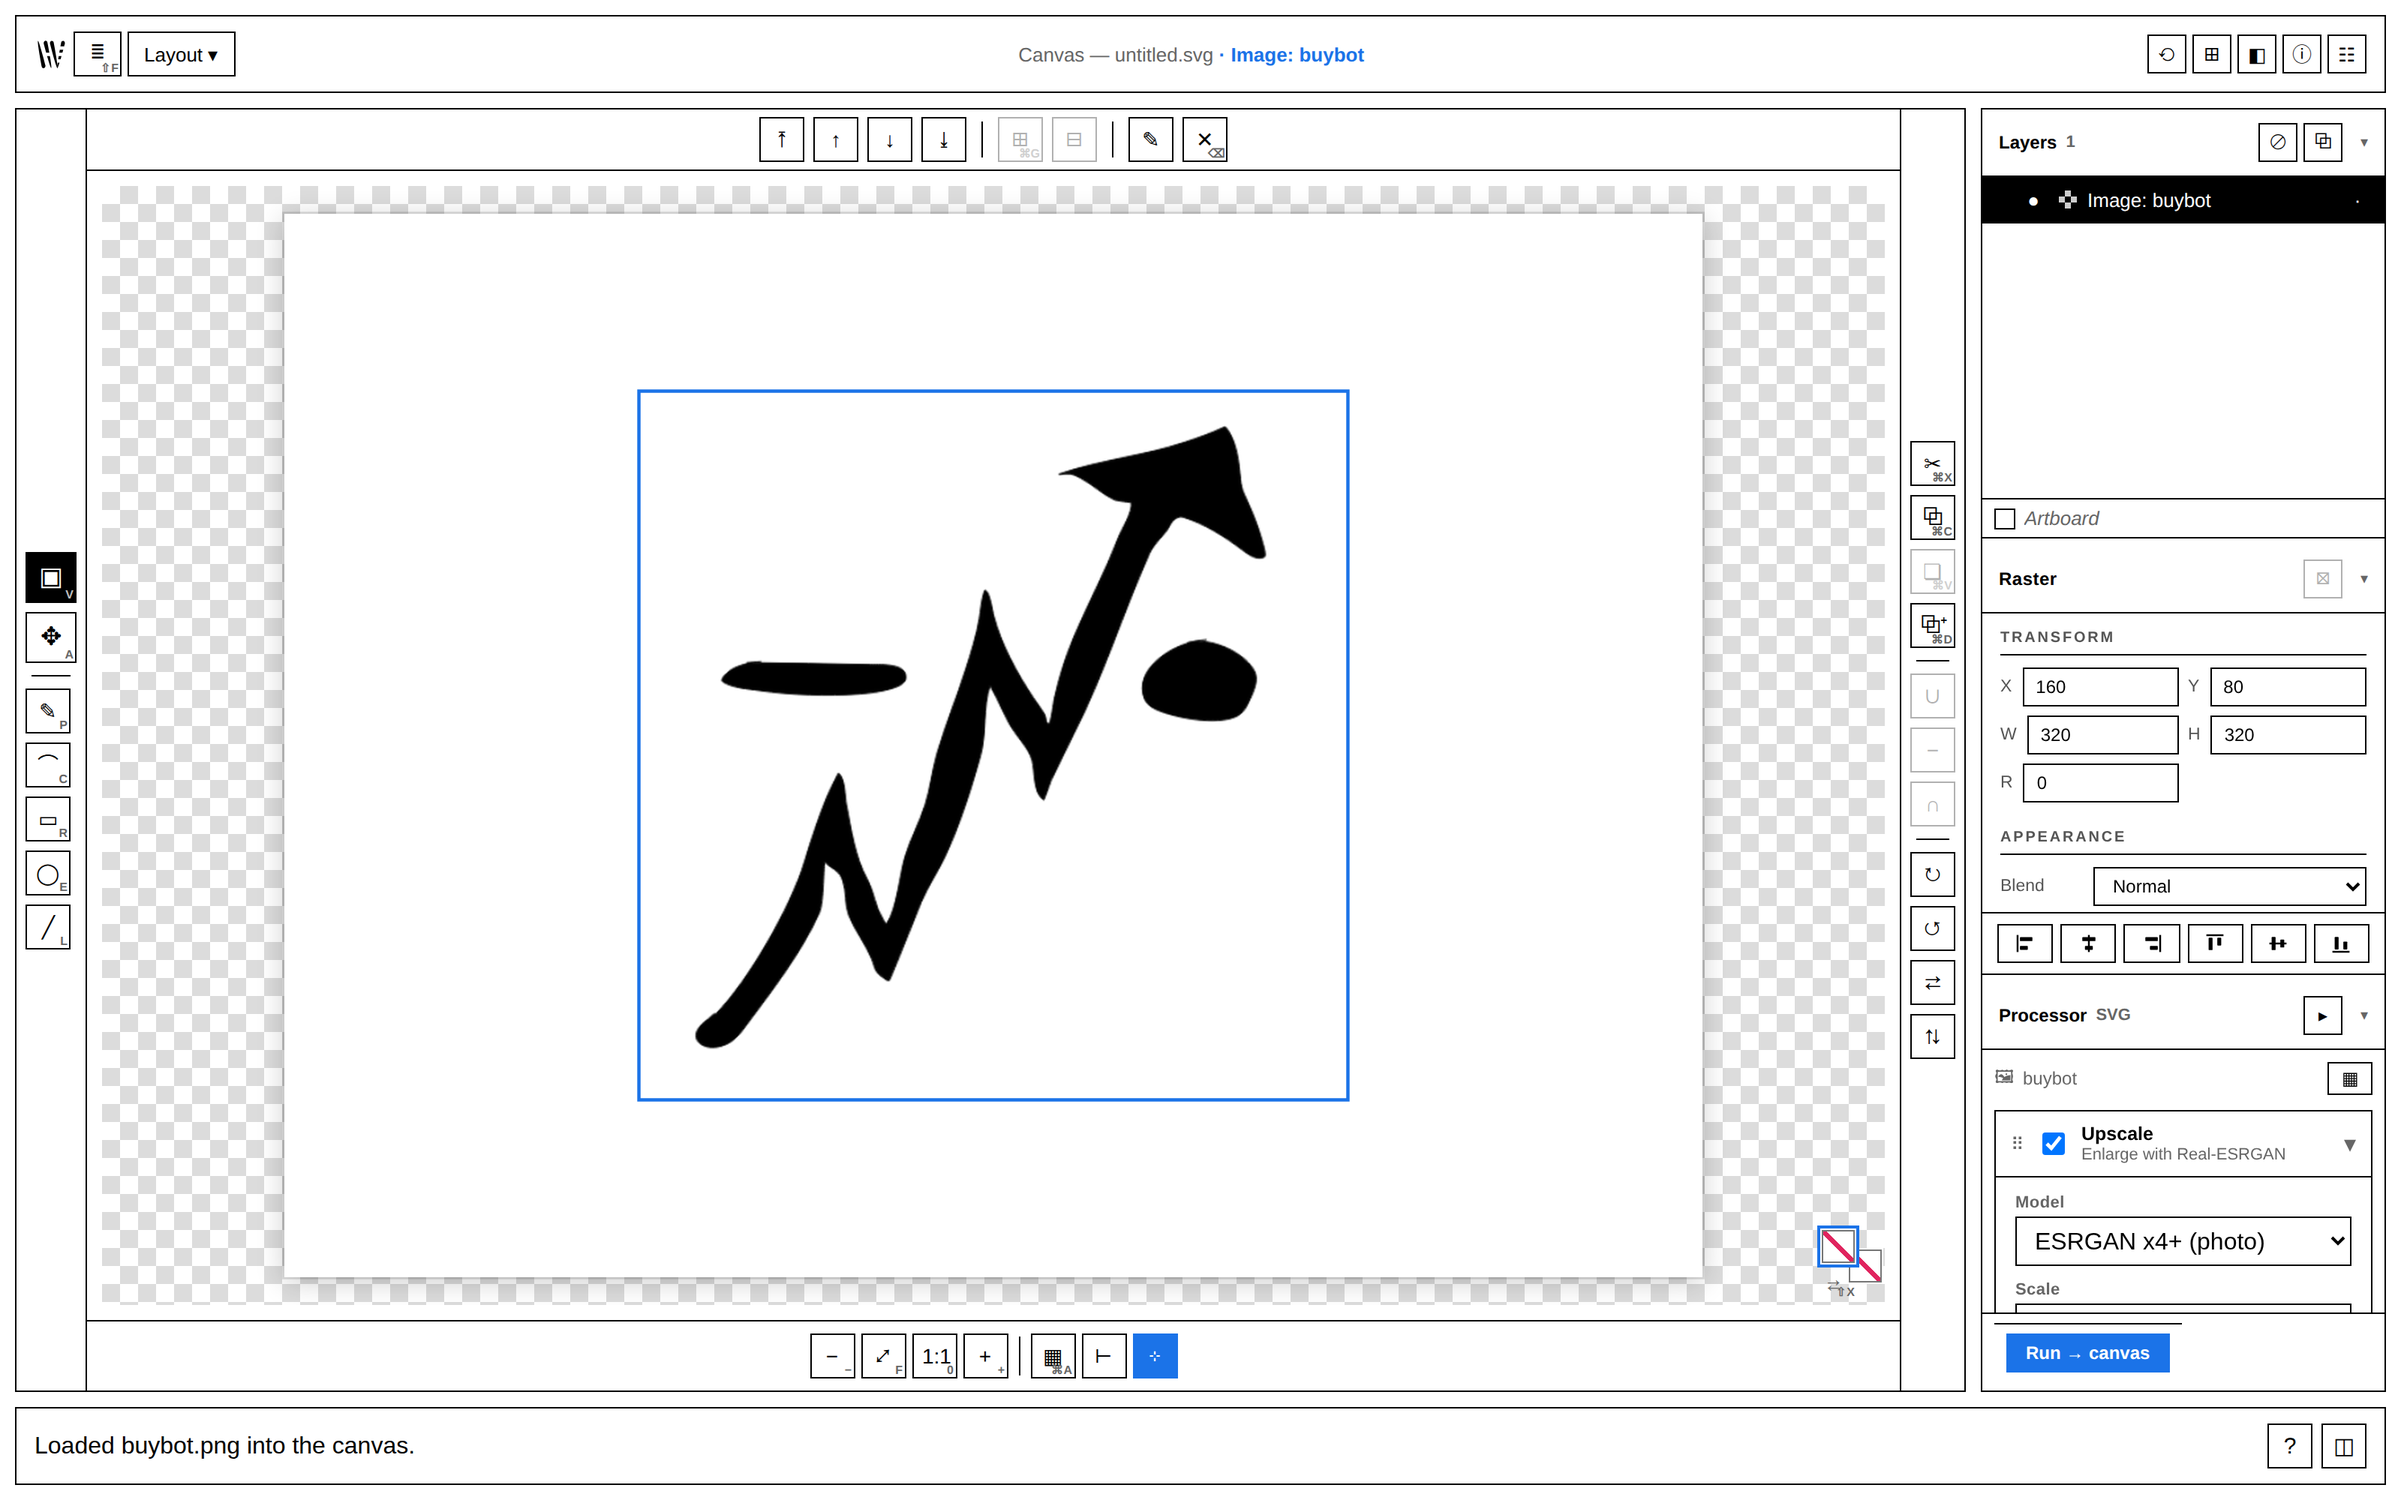
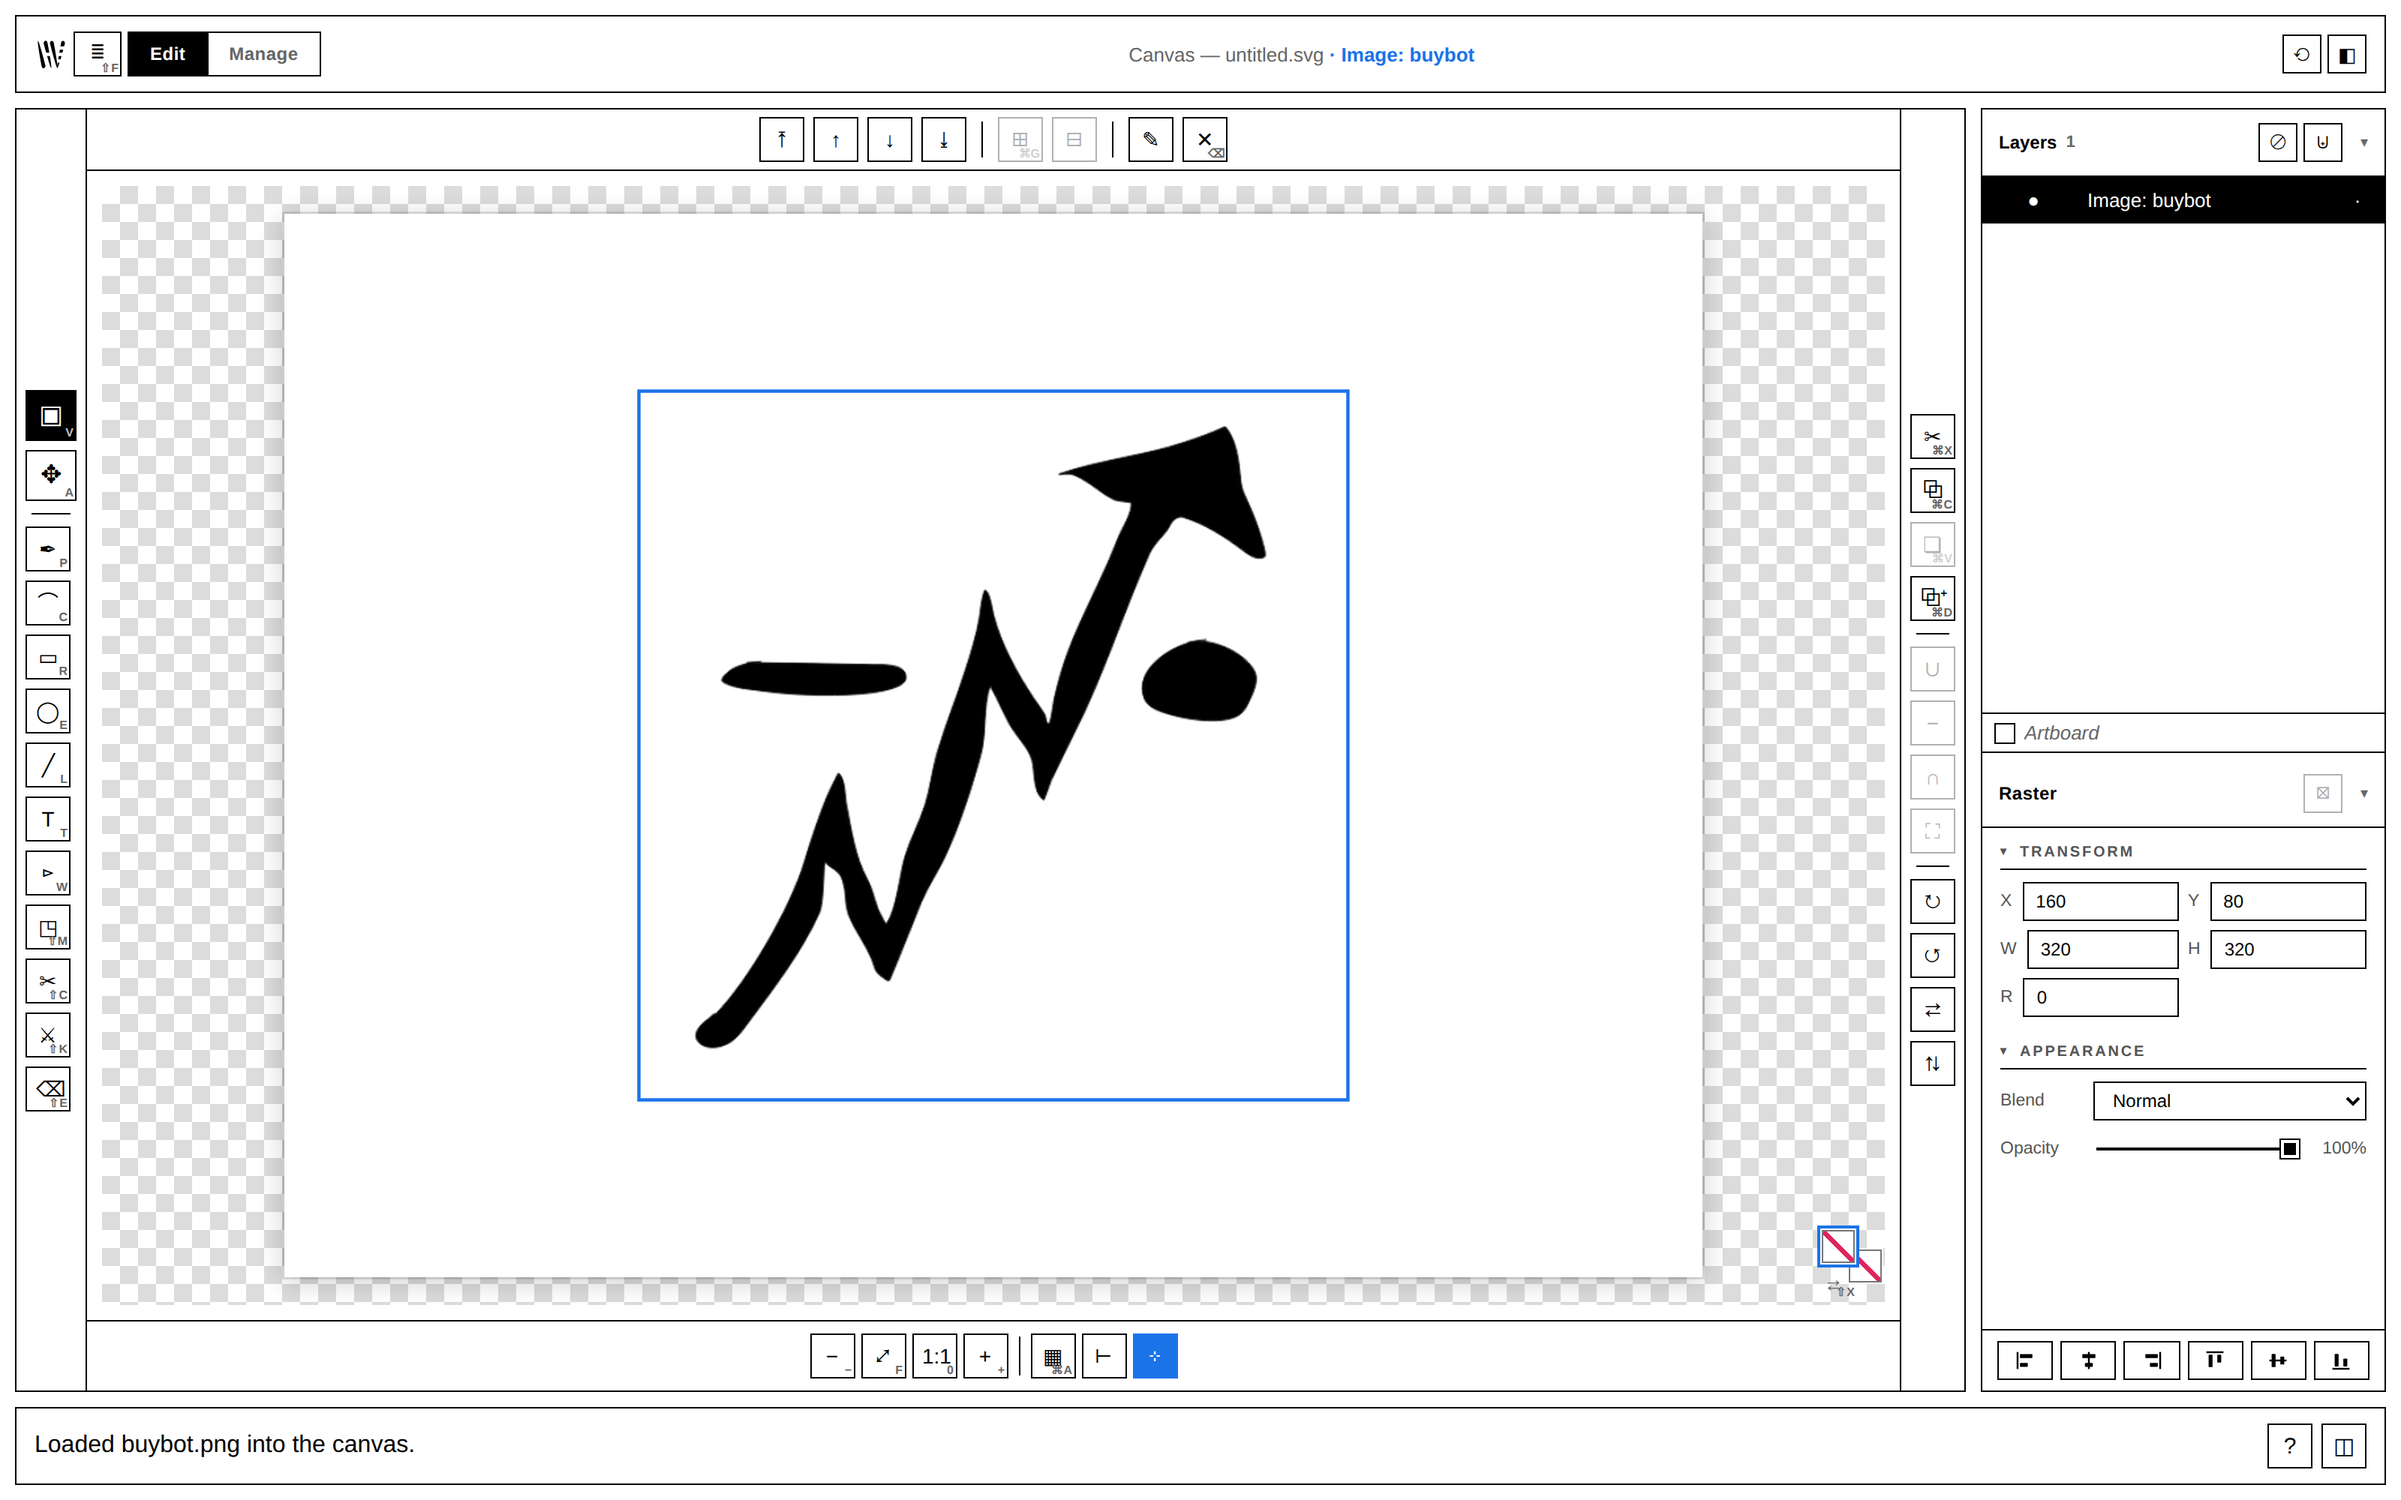
docs: catch the OSS surface up to reality (parity epics, shortcuts, arch)
README: add the shipped Illustrator-parity epics to the Roadmap board
(gradients/patterns/recolor, masks, pathfinder + geometric stroker,
width, shape-builder set, blend, effects, transforms/repeat, multiple
artboards, isolation, symbols, lean inspector); fix Planned (artboards
were shipped → list the real backlog: brushes/distort/type/PDF-EPS);
add F8 + transform-again + an "Object actions" shortcut row; describe the
modular src/editor/tools + src/ui split in Architecture; add Text & fonts
to the Contents. CONTRIBUTING: modular layout + the two CI static gates
(import guard + eslint no-undef) in the PR checklist. Regenerate the
docs/ screenshots against the current slim-inspector UI.

diff --git a/README.md b/README.md
@@ -15,7 +15,7 @@ It began as a batch "image studio" and grew a real editor — and now the canvas
 - [Screenshots](#screenshots)
 - [Quick start](#quick-start)
 - [Features](#features)
-  - [Canvas & document](#canvas--document) · [Drawing tools](#drawing-tools) · [Path & node editing](#path--node-editing) · [Object operations](#object-operations) · [Fill, stroke & colour](#fill-stroke--colour) · [Workspace & panels](#workspace--panels) · [Raster→vector pipeline](#rastervector-pipeline) · [Vectorize engines](#vectorize-engines) · [Pixel Art → SVG](#pixel-art--svg) · [Library & export](#library--export) · [Platform](#platform)
+  - [Canvas & document](#canvas--document) · [Drawing tools](#drawing-tools) · [Path & node editing](#path--node-editing) · [Text & fonts](#text--fonts) · [Object operations](#object-operations) · [Fill, stroke & colour](#fill-stroke--colour) · [Workspace & panels](#workspace--panels) · [Raster→vector pipeline](#rastervector-pipeline) · [Vectorize engines](#vectorize-engines) · [Pixel Art → SVG](#pixel-art--svg) · [Library & export](#library--export) · [Platform](#platform)
 - [Keyboard shortcuts](#keyboard-shortcuts)
 - [Requirements](#requirements)
 - [Roadmap & status](#roadmap--status)
@@ -193,8 +193,9 @@ Heavily *bilinear*-resampled art is genuinely ambiguous; set **Native size (cell
 |---|---|
 | **Tools** | `V` select · `A` node · `P` pen · `C` curvature · `R` rect · `E` ellipse · `L` line · `T` text · `W` width · `⇧M` shape builder · `⇧C` scissors · `⇧K` knife · `⇧E` eraser |
 | **Edit** | `Ctrl/Cmd+Z` undo · `Ctrl/Cmd+Shift+Z` / `Ctrl/Cmd+Y` redo · `Ctrl/Cmd+D` duplicate · `Ctrl/Cmd+C/X/V` copy/cut/paste · `Delete` remove |
-| **Object** | `Ctrl/Cmd+G` group · `Ctrl/Cmd+Shift+G` ungroup · `Ctrl/Cmd+J` join nodes · `Ctrl/Cmd+T` scale · `Ctrl/Cmd+A` select all · `Ctrl/Cmd+7` clip · `Ctrl/Cmd+Alt+B` blend |
-| **Colour** | `X` swap fill/stroke · `D` default fill/stroke (in the Colour panel) |
+| **Object** | `Ctrl/Cmd+G` group · `Ctrl/Cmd+Shift+G` ungroup · `Ctrl/Cmd+J` join nodes · `Ctrl/Cmd+T` scale · `Ctrl/Cmd+A` select all · `Ctrl/Cmd+7` clip · `Ctrl/Cmd+Alt+B` blend · `F8` symbol · `Ctrl/Cmd+Shift+D` transform again |
+| **Object actions** | **Right-click** an object (or the **Actions ▾** button in Properties) for Expand · Outline stroke · Offset path · Pathfinder · Vary width · Make blend / symbol · Reflect · Repeat |
+| **Colour** | `X` swap fill/stroke · `D` default fill/stroke (in the Colour panel) · `/` none |
 | **Document** | `Ctrl/Cmd+S` save · `Ctrl/Cmd+Shift+S` save as · `Ctrl/Cmd+R` rulers/guides · `Esc` clear selection / exit transform |
 
 ## Requirements
@@ -241,6 +242,17 @@ The deep research behind pipeline picks — every category, the OSS SOTA, and th
 - [x] **Auto pipeline** — classical analyzer → suggested compose with *why* + one-click Apply; outcome→model router driven by a capability registry.
 - [x] **Pixel Art → SVG**, **client-side PNG export**, **`.hv` projects**, **Library**, in-app **self-update**, **app-window** mode with tied server lifecycle.
 - [x] **Text & fonts** — point / box / on-path text, multi-source font discovery (Fontsource / Fontshare / Google / Bunny) with an Installed library, and **Convert to outlines** with browser-faithful shaping (HarfBuzz) and curve-following on-path outlines.
+- [x] **Gradients, patterns & recolor** — linear/radial gradient fill or stroke with an on-strip stop editor; tiling `<pattern>` fills; **Recolor Artwork** (harvest distinct colours → remap one, or HSL-shift the whole palette). All live in `<defs>` and round-trip through save + PNG export.
+- [x] **Clipping & opacity masks** — top object as a `<clipPath>` or luminance `<mask>`, non-destructive and **releasable**.
+- [x] **Pathfinder & path conversion** — Divide / Trim / Merge / Crop / Minus-Back, plus **Outline stroke** / **Offset path** / **Expand**, all on an **analytic geometric stroker** (exact miter / bevel / round joins and caps, no bitmap quantization).
+- [x] **Width tool** — variable-width strokes dragged on-canvas and rendered to crisp filled ribbons through the same stroker.
+- [x] **Shape Builder · Scissors · Knife · Eraser** — interactive path construction / cutting / carving on the boolean engine.
+- [x] **Blend** — interpolate a chain of shapes between two objects, morphing geometry *and* colour (live step count / reverse / expand).
+- [x] **Live effects** — non-destructive drop-shadow / blur / glow as real SVG `<filter>`s, editable in Properties and **reconstructable** on reopen.
+- [x] **Transforms & repeat** — Reflect / Shear / Transform-Each / Transform-Again, plus parametric **grid / radial / mirror** Repeat groups.
+- [x] **Multiple artboards** — named artboards with per-frame fit-to-view + cropped SVG export, persisted invisibly in `<metadata>`.
+- [x] **Isolation mode & Symbols** — double-click into a group to edit it in place; reusable `<symbol>`/`<use>` instances with live **edit-master** and **break-link**.
+- [x] **Lean inspector** — collapsible property groups (remembered) and one-shot object commands in a context-gated **Actions** menu (toolbar button **and** object right-click), with the Recolor editor reusing the dock Colour panel.
 
 ### In progress / open edges
 
@@ -250,7 +262,11 @@ The deep research behind pipeline picks — every category, the OSS SOTA, and th
 
 ### Planned
 
-- [ ] **Distribute** spacing + **multi-object transform handles** (group rotate/scale) + **multiple artboards**.
+- [ ] **Brushes** — art / scatter / pattern strokes along a path.
+- [ ] **Distort & warp** — envelope / mesh / free-distort deformations.
+- [ ] **Type systems** — character / paragraph styles and threaded text frames.
+- [ ] **More export formats** — PDF / EPS.
+- [ ] **Distribute** spacing + group transform handles (rotate/scale a multi-selection as one).
 - [ ] **Vectorize "quality" tier** — VTracer is the only viable OSS colour vectorizer; closed engines (Vectorizer.ai) are meaningfully better on photos. Optional paid-API fallback is on the table.
 
 ### Known limitations
@@ -266,8 +282,8 @@ No build step anywhere — the frontend is hand-written ES modules served as-is.
 
 - **`src/`** — the dependency-free vanilla-JS frontend:
   - **`src/hv/`** — a pure, side-effect-free library: geometry & path math (`path`, `transform`, `shapes`, `shapegen`), colour (`color`), raster sampling (`raster`), and the marching-squares boolean/contour engine with its shared curve-fit core (`contour`, `fitcurve`).
-  - **`src/editor.js`** — the live-SVG editing core: selection, the tools, snapshot undo, layers, and the boolean operations.
-  - **`src/app.js`** — the app shell: the dockable-panels system (`window.__docks`), the Library, the Processor pipeline UI, Info, and client-side PNG export.
+  - **`src/editor.js`** + **`src/editor/`** — the live-SVG editing core (selection, snapshot undo, layers, boolean ops) plus per-feature **tool mixins** under `src/editor/tools/` (`pen`, `text`, `width`, `builder`, `blend`, `colors`, `masks`, `expand`, `effects`, `repeat`, `isolation`, `symbols`, `artboards`, `viewport`, …) `Object.assign`-ed onto one editor object, and inspector row builders in `src/editor/ui-rows.js`.
+  - **`src/app.js`** + **`src/ui/`** — the app shell and UI modules: the dockable-panels system (`ui/docks`, `window.__docks`), the unified colour picker (`ui/colorpicker`), menus (`ui/menus`), the font browser (`ui/fonts`), the Library, the Manage screen, the Processor pipeline UI, Info, and client-side PNG export.
 - **`server.py`** — a single-file backend on Python's stdlib `http.server`, with a threaded job queue and a JSON API (`/api/run/pipeline`, `/api/vectorize/engines`, `/api/raster-ops`, `/api/capabilities`, `/api/plan`, `/api/work-items`, `/api/install/*`, `/api/heartbeat`, …). It's organized around pluggable registries: **vectorize engines** (`clean` / `vtracer` / `pixel`), **raster ops** (`upscale` / `removebg` / restoration), and a **capability registry** (outcome→model routing) — adding a model is a registry entry that surfaces in the UI automatically. A heartbeat watchdog spins the server down when the UI closes. No web framework.
 - **`engine.py`, `mask_trace_prep.py`** — classical mask/cutout image ops.
 - **`tools/`** — worker scripts: `pixelvec.py`, `svg_render.py`, `simplify_svg.py` (vector), `ai_cutout.py` (rembg), `upscale_spandrel.py`, `face_restore.py` + `detect_faces.py` (GFPGAN), `inpaint_lama.py` (object removal), and `analyze.py` (the offline analyzer behind the Auto plan). External binaries/weights land here / in `./.venv` / `~/.u2net` at runtime.

diff --git a/CONTRIBUTING.md b/CONTRIBUTING.md
@@ -15,7 +15,7 @@ The external tools (Real-ESRGAN, VTracer, rembg) install themselves on first run
 
 ## Ground rules
 
-- **No build step, no frameworks.** The backend is stdlib `http.server` (`server.py`); the frontend is hand-written ES modules served as-is — `src/hv/` (pure library), `src/editor.js` (the live-SVG editing core), `src/app.js` (the app shell / dockable panels / pipeline UI). Keep it that way unless there's a strong reason.
+- **No build step, no frameworks.** The backend is stdlib `http.server` (split into `hvserver/` modules behind a `server.py` façade); the frontend is hand-written ES modules served as-is — `src/hv/` (pure geometry/colour library), `src/editor.js` + per-tool mixins under `src/editor/tools/` (the live-SVG editing core), and `src/app.js` + `src/ui/` (the app shell / dockable panels / colour picker / menus / pipeline UI). Keep it that way unless there's a strong reason.
 - **New worker scripts** go in `tools/` as standalone, CLI-testable modules (see `pixelvec.py`, `svg_render.py`). Pure `numpy`/`Pillow` is preferred so they run without a venv.
 - **Adding a processing stage?** Processing is one generalized pipeline (`run_pipeline` in `server.py`); the old per-process endpoints are gone. Extend `_pipeline_stages`/`run_pipeline` on the backend and the Processor stage strip on the frontend (`PIPELINE_STAGES` + `renderStageSettings`/`buildProcessorRail` in `src/app.js`). A new vectorize engine or background-removal backend is just a new entry in the `VECTORIZE_ENGINES` / `RASTER_OPS` registry in `server.py` — the resolver and schema endpoints pick it up.
 - **Don't commit** anything under `inputs/`, `outputs/`, `.venv/`, or the vendored binaries — `.gitignore` already covers them. Don't commit personal images.
@@ -24,11 +24,14 @@ The external tools (Real-ESRGAN, VTracer, rembg) install themselves on first run
 
 ```bash
 python3 -c "import ast; ast.parse(open('server.py').read())"   # backend parses
-node --check src/app.js && node --check src/editor.js          # frontend parses
+python3 tests/test_imports.py                                  # server import guard (CI gate)
+ESLINT_USE_FLAT_CONFIG=false npx --yes eslint@8.57.1 --no-eslintrc -c tests/eslintrc.json --ext .js src/   # JS no-undef (CI gate)
 python3 tests/test_smoke.py                                    # backend smoke suite
 ./run.sh &                                                     # the E2E suite needs the app running
 .venv-e2e/bin/python tests/e2e/editor_e2e.py                   # editor end-to-end (real browser)
 ```
+
+The two **CI gates** (`tests/test_imports.py` + the eslint `no-undef` run, both wired into `.github/workflows/ci.yml`) are cheap, build-free, and catch the god-file-split regression class — run them before pushing. The full editor E2E is a local gate (it needs the ML toolchain that's deliberately kept out of `requirements.txt`).
 
 The editor E2E (`tests/e2e/editor_e2e.py`) drives a real headless browser via Playwright against a running server — set up a one-time `.venv-e2e` with `playwright` if you don't have it. Regenerate the README screenshots with `tests/e2e/screenshots.py` when the UI changes. For algorithm changes (e.g. the pixel-grid detector), also add or update a quick check against the `examples/` sprites.
 
